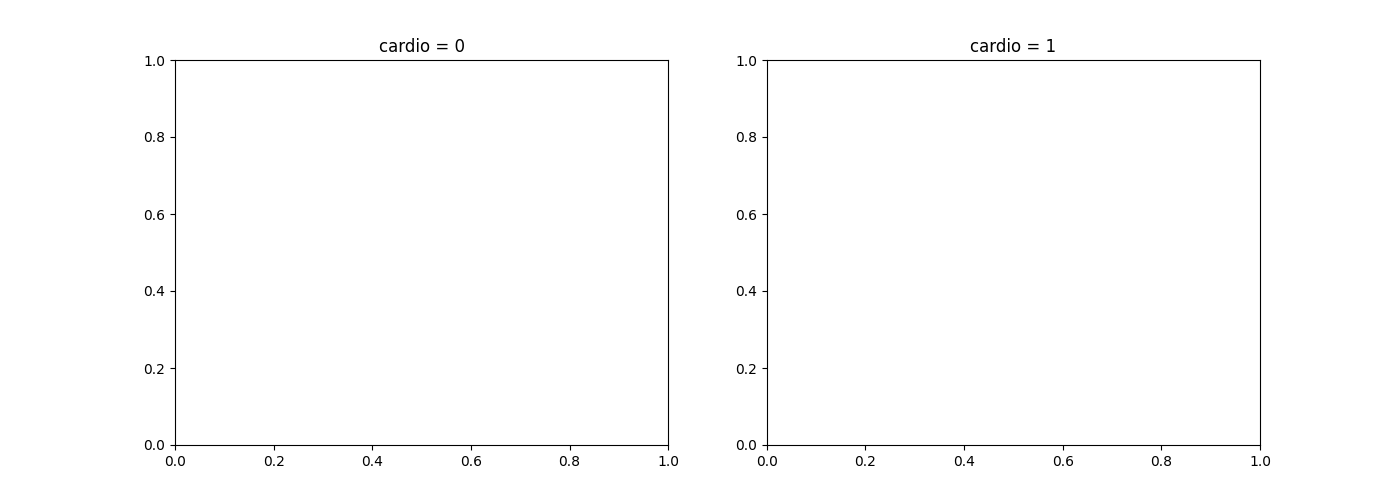
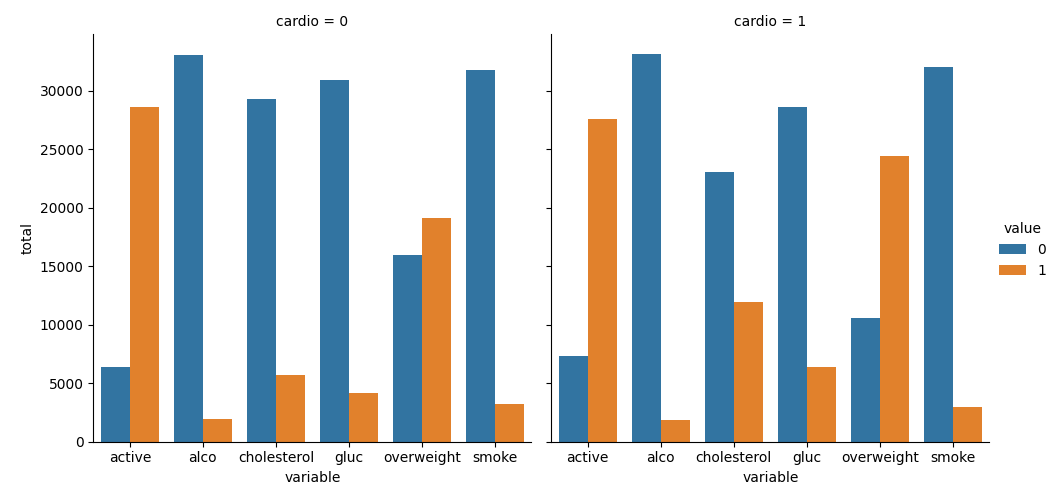
np.where is tricky.

diff --git a/medical_data_visualizer.py b/medical_data_visualizer.py
@@ -15,30 +15,24 @@ def is_overweight(row):
 df['overweight'] = df.apply(is_overweight, axis=1)
 
 # Normalize data by making 0 always good and 1 always bad. If the value of 'cholesterol' or 'gluc' is 1, make the value 0. If the value is more than 1, make the value 1.
-df['cholesterol'] = np.where(df['cholesterol'] > 1, 0, 1)
-df['gluc'] = np.where(df['gluc'] > 1, 0, 1)
+df['cholesterol'] = np.where(df['cholesterol'] > 1, 1, 0)
+df['gluc'] = np.where(df['gluc'] > 1, 1, 0)
 
 # Draw Categorical Plot
 def draw_cat_plot():
     # Create DataFrame for cat plot using `pd.melt` using just the values from 'cholesterol', 'gluc', 'smoke', 'alco', 'active', and 'overweight'.
     df_cat = pd.melt(df, value_vars=['cholesterol','gluc','smoke','alco','active','overweight'])
-    print(df_cat)
 
     # Group and reformat the data to split it by 'cardio'. Show the counts of each feature. You will have to rename one of the columns for the catplot to work correctly.
-    df_cat0 = pd.melt(df.loc[df.cardio == 0], value_vars=['cholesterol','gluc','smoke','alco','active','overweight']).groupby('variable').value_counts().to_frame()
-    df_cat0.rename(columns = {0:"total"}, inplace=True)
-    df_cat1 = pd.melt(df.loc[df.cardio == 1], value_vars=['cholesterol','gluc','smoke','alco','active','overweight']).groupby('variable').value_counts().to_frame()
-    df_cat1.rename(columns = {0:"total"}, inplace=True)
-    print(df_cat0)
+    df_cat = pd.melt(df, id_vars=['cardio'], value_vars=['cholesterol','gluc','smoke','alco','active','overweight']).groupby('cardio').value_counts().to_frame()
+    df_cat.rename(columns={0:'total'}, inplace=True)
 
     # Draw the catplot with 'sns.catplot()'
-    cardio_fig1 = sns.catplot(x='variable', y='total', hue='value', data=df_cat0, row=0, col=0)
-    cardio_fig2 = sns.catplot(x='variable', y='total', hue='value', data=df_cat1, row=0, col=1)
-
+    plot = sns.catplot(x='variable', y='total', hue='value', col='cardio', data=df_cat, 
+            kind='bar', order=['active', 'alco', 'cholesterol', 'gluc', 'overweight', 'smoke'])
 
     # Get the figure for the output
-    fig = cardio_fig1.get_figure()
-
+    fig = plot.fig
 
     # Do not modify the next two lines
     fig.savefig('catplot.png')
@@ -48,23 +42,22 @@ def draw_cat_plot():
 # Draw Heat Map
 def draw_heat_map():
     # Clean the data
-    df_heat = None
+    df_heat = df[(df['ap_lo'] <= df['ap_hi']) 
+            & (df['weight'] <= df['weight'].quantile(0.975)) & (df['weight'] >= df['weight'].quantile(0.025)) 
+            & (df['height'] <= df['height'].quantile(0.975)) & (df['height'] >= df['height'].quantile(0.025))]
 
     # Calculate the correlation matrix
-    corr = None
+    corr = df_heat.corr()
 
     # Generate a mask for the upper triangle
-    mask = None
-
-
+    mask = np.triu(corr)
 
     # Set up the matplotlib figure
-    fig, ax = None
+    fig, ax = plt.subplots()
 
     # Draw the heatmap with 'sns.heatmap()'
-
-
-
+    sns.heatmap(corr, mask=mask, ax=ax, annot=True, fmt='.1f')
+    
     # Do not modify the next two lines
     fig.savefig('heatmap.png')
     return fig
